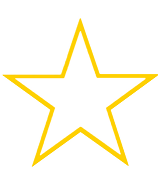
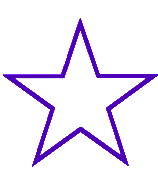
Adds a new them to the buttons.

Changed region(s): [[0.0253, 0.0806, 1.0, 0.914]]

diff --git a/assets/css/general.css b/assets/css/general.css
@@ -18,19 +18,19 @@ a.black_link {
 }
 
 .pure-button-success {
-    background: rgb(28, 184, 65); /* this is a green */
+    background: rgb(140, 221, 47);
 }
 
 .pure-button-error {
-    background: rgb(202, 60, 60); /* this is a maroon */
+    background: rgb(236, 96, 61);
 }
 
 .pure-button-warning {
-    background: rgb(223, 117, 20); /* this is an orange */
+    background: rgb(255, 170, 0);
 }
 
 .pure-button-secondary {
-    background: rgb(66, 184, 221); /* this is a light blue */
+    background: rgb(81, 219, 221);
 }
 
 .pure-button-xsmall {
@@ -180,8 +180,8 @@ div .picture {
     display:inline-block;
 
     background-color: #FFFF99;
-    border: solid 2px #FFD203;
-    color: #FBB800;
+    border: solid 2px #5132AF;
+    color: #5132AF;
 }
 
 @media (max-width: 1050px) {
@@ -249,5 +249,5 @@ body a:visited  {
 }
 
 .pure-button-primary, .pure-button-selected, a.pure-button-primary, a.pure-button-selected {
-    background-color: #5132AF;
+    background-color: #846BFF;
 }
